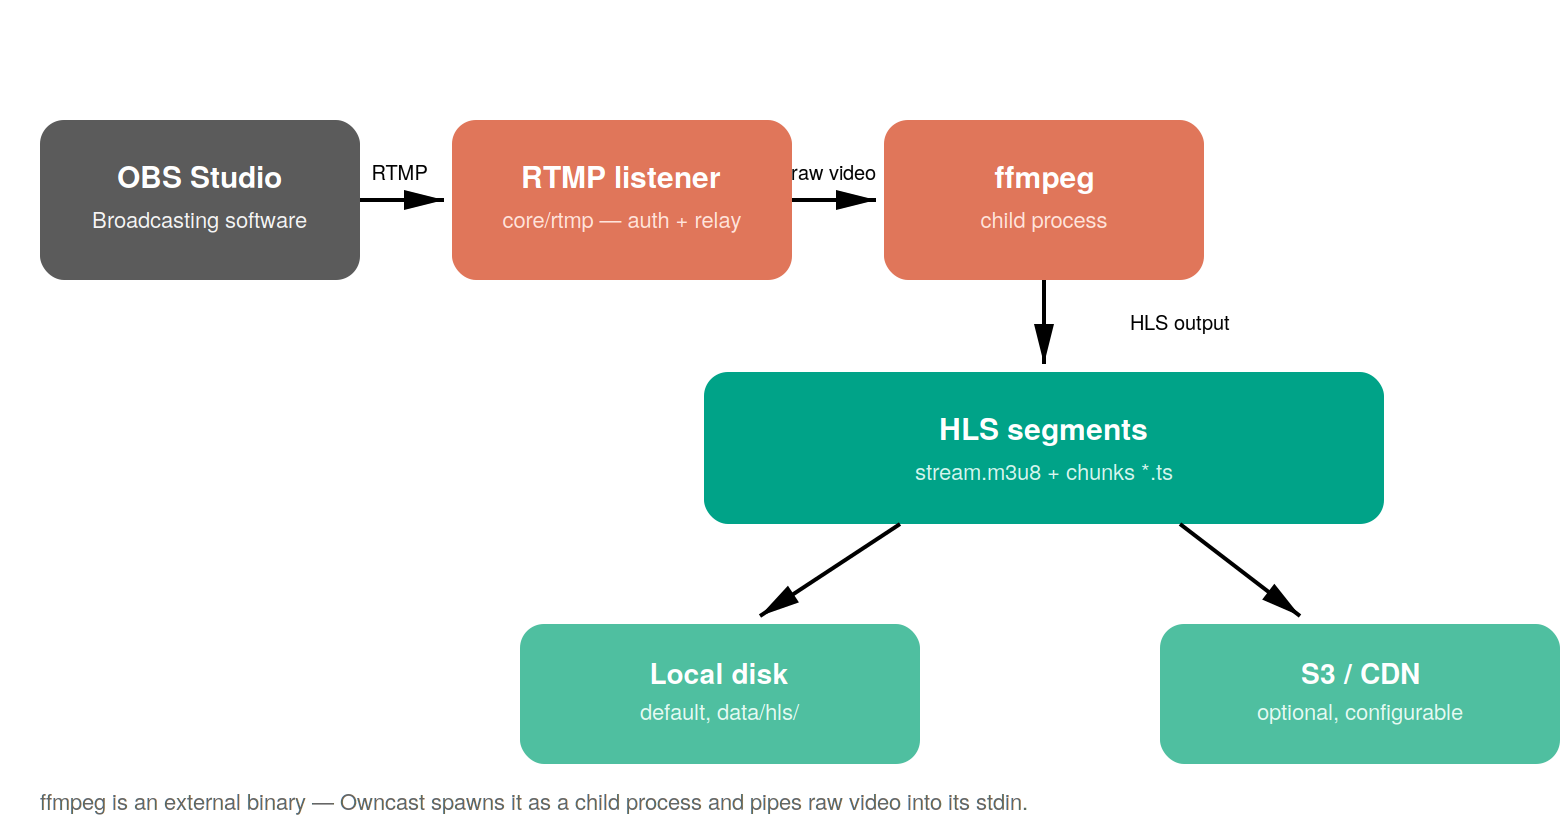
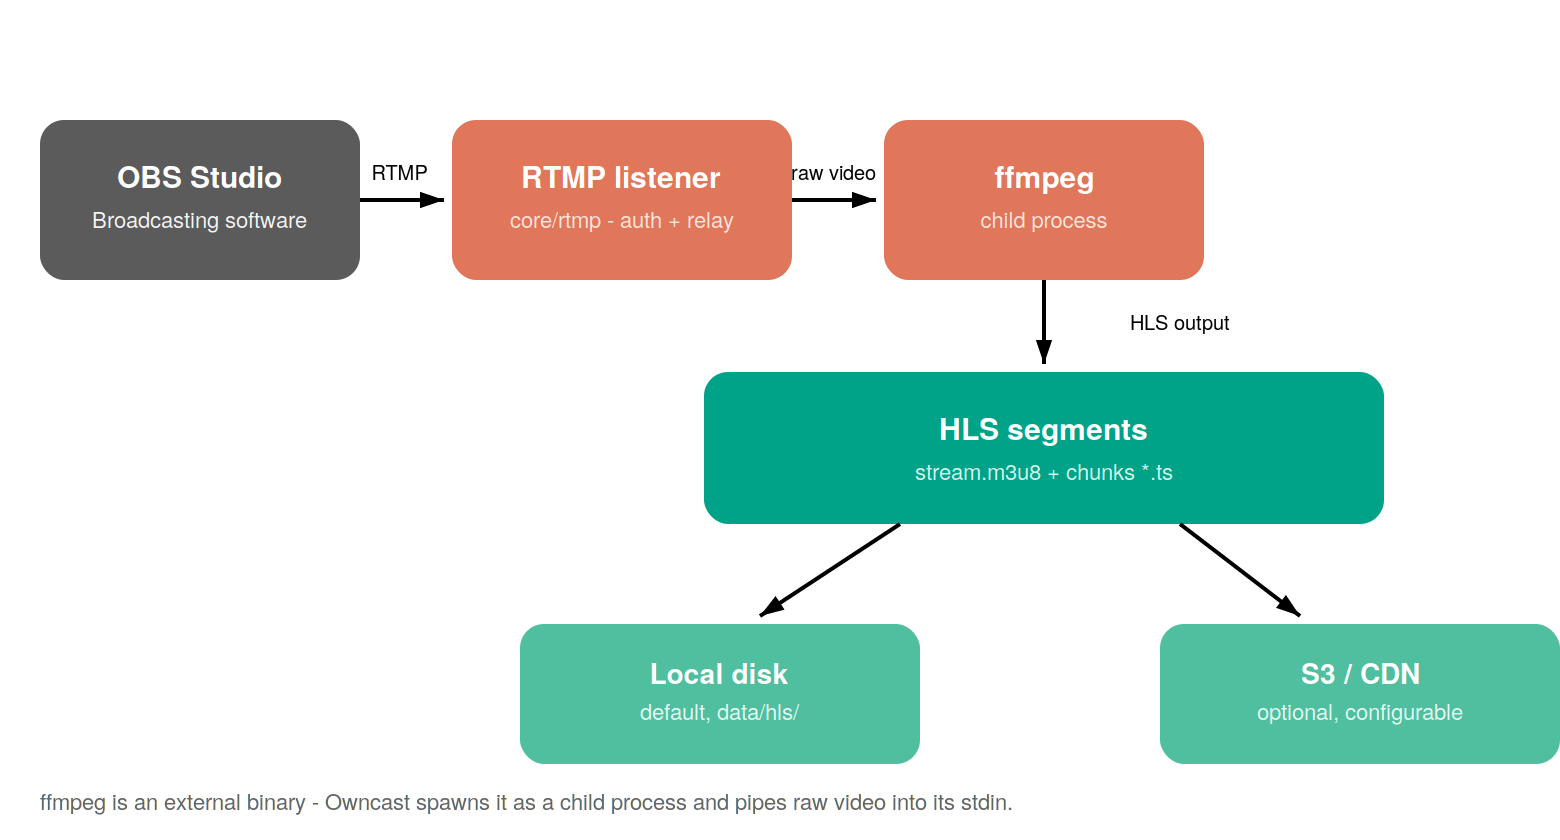
Fix image paths in Architecture Overview to work on GitHub

diff --git a/Writerside/topics/Architecture-Overview.md b/Writerside/topics/Architecture-Overview.md
@@ -12,6 +12,9 @@ each piece lives in the codebase.
 
 ## 1. System layers
 
+At a high level, Owncast receives an RTMP stream, transcodes it into HLS,
+serves the frontend, and emits webhook events as activity occurs.
+
 The system has four distinct layers. Each has a single responsibility and a
 clear boundary.
 
@@ -32,15 +35,15 @@ runs before any viewer can watch. This is the ingest pipeline.
 
 ## 3. Backend internals: request path
 
-All HTTP traffic — REST API, WebSocket chat, admin panel, static frontend —
+All HTTP traffic - REST API, WebSocket chat, admin panel, static frontend -
 enters through a single Go HTTP server. Here is how a request travels from
 the network to the database and back.
 
 ![Backend request path](../images/backend.png)
 
 Each layer only talks to the layer directly below it. A handler never
-queries the database directly — it always goes through a service. A service
-never writes SQL directly — it always goes through persistence. This
+queries the database directly - it always goes through a service. A service
+never writes SQL directly - it always goes through persistence. This
 separation makes each layer testable in isolation.
 
 **What lives in `services/`:**
@@ -59,12 +62,12 @@ separation makes each layer testable in isolation.
 
 The frontend is a Next.js application that lives in the `web/` directory. It
 is built separately from the Go backend and compiled into static files. At
-runtime the Go server serves these files — no Node.js process runs in
+runtime the Go backend serves these files - no Node.js process runs in
 production.
 
 ![Frontend architecture](../images/frontend.png)
 
-The video player uses `hls.js` — a JavaScript library that fetches HLS
+The video player uses `hls.js` - a JavaScript library that fetches HLS
 segments directly from disk or S3. The Go backend is not in the video
 playback path once streaming starts. Chat, however, always goes through the
 Go WebSocket server.
@@ -72,7 +75,7 @@ Go WebSocket server.
 ## 5. Database schema (key tables)
 
 Owncast uses a single SQLite file. All tables live in one database. There is
-no migrations framework — schema changes are handled in Go code at startup.
+no migrations framework - schema changes are handled in Go code at startup.
 
 ![Database schema](../images/erd.png)
 
@@ -82,18 +85,21 @@ Owncast connects to three types of external systems beyond the browser.
 
 ![External connections](../images/external.png)
 
-- **Mastodon / Fediverse** — via the ActivityPub protocol (`activitypub/`).
+- **Mastodon / Fediverse** - via the ActivityPub protocol (`activitypub/`).
   Viewers on Mastodon can follow an Owncast server as if it were a social
   media account; when a stream goes live, a post appears in their timeline.
-- **Bots / integrations** — via the REST API and webhooks (`webhooks/`).
-- **CDN** — for video segment delivery when S3-compatible storage is
+- **Bots / integrations** - via the REST API and webhooks (`webhooks/`).
+- **CDN** - for video segment delivery when S3-compatible storage is
   configured.
-- **Owncast directory** — the public stream listing that self-hosted servers
+- **Owncast directory** - the public stream listing that self-hosted servers
   can optionally publish to.
+## See also
+
+- [Webhooks API Reference](Webhooks-Api-Reference.md) - how the `webhooks/` service publishes outbound events
+- [Viewer Metrics](Viewer-Metrics.md) - fields carried inside the STREAM_TITLE_UPDATED webhook payload
+- [Owncast Documentation](Owncast-Documentation.md) - back to overview
 ---
 
-*Based on Owncast v0.2.x · [github.com/owncast/owncast](https://github.com/owncast/owncast)*
+*Based on Owncast v0.2.4 · [github.com/owncast/owncast](https://github.com/owncast/owncast)*
 
 ---
-
-*↑ Back to [Owncast Documentation](Owncast-Documentation.md).*

diff --git a/Writerside/topics/Webhooks-Api-Reference.md b/Writerside/topics/Webhooks-Api-Reference.md
@@ -1,6 +1,7 @@
 # API Reference: Webhooks
 
 This document covers Owncast's webhook system, which lets external applications react to server events (chat messages, stream start/stop, and more) in real time.
+
 ## What are webhooks
 
 Webhooks are the opposite of polling. Instead of your integration asking Owncast "did anything happen?" on a schedule, Owncast calls your server the moment something happens.
@@ -9,10 +10,10 @@ You register a URL. Owncast sends an HTTP POST to that URL whenever a specific e
 
 ```
 Without webhooks (polling):
-Your app -GET /status → Owncast (every 5 seconds, most calls return nothing new)
+Your app ──GET /status──> Owncast   (every 5 seconds, most calls return nothing new)
  
 With webhooks (push):
-Owncast -POST /your-endpoint → Your app (only when something actually happens)
+Owncast ──POST /your-endpoint──> Your app   (only when something actually happens)
 ```
 
 **When to use webhooks instead of the REST API:**
@@ -20,7 +21,6 @@ Owncast -POST /your-endpoint → Your app (only when something actually happens)
 - You want to build a Discord bot that announces when the stream goes live
 - You need to log all chat messages to an external database
 - You want to trigger other services when a specific event occurs
-
   **When to use the REST API instead:**
 - You need to query current state (how many viewers right now?)
 - You want to send something to Owncast (post a message, change the title)
@@ -242,10 +242,10 @@ When a subscribed event occurs, Owncast sends a POST request to your registered 
 }
 ```
 
-| Field | Type | Description                                                      |
-|---|---|------------------------------------------------------------------|
+| Field | Type | Description |
+|---|---|---|
 | `type` | string | The event type that fired (matches values in your `events` list) |
-| `eventData` | object | Event-specific payload (structure varies by type - see below)    |
+| [`eventData`](Glossary.md#eventdata) | object | Event-specific payload (structure varies by type - see below) |
 
 ### STREAM_STARTED and STREAM_STOPPED
 
@@ -403,12 +403,12 @@ curl -X POST http://your-owncast-server:8080/api/admin/webhooks/delete \
 
 ## Error handling reference
 
-| HTTP status | Meaning | Action                                                              |
-|---|---|---------------------------------------------------------------------|
-| `200` | Success | -                                                                   |
+| HTTP status | Meaning | Action |
+|---|---|---|
+| `200` | Success | -  |
 | `400` | Bad request | Check request body: missing fields, invalid URL, unknown event type |
-| `401` | Unauthorized | Check Basic Auth credentials; admin password may have changed       |
-| `500` | Server error | Check Owncast server logs                                           |
+| `401` | Unauthorized | Check Basic Auth credentials; admin password may have changed |
+| `500` | Server error | Check Owncast server logs |
 
 Owncast does **not** retry failed webhook deliveries. If your endpoint is down when an event fires, that event is lost. Design your receiver to be reliable, or poll the REST API as a fallback for critical events.
  
@@ -416,13 +416,16 @@ Owncast does **not** retry failed webhook deliveries. If your endpoint is down w
 
 ## Related resources
 
+- [Architecture Overview](Architecture-Overview.md) - how the `webhooks/` service fits into the overall system
+- [User](User.md) - structure of the `user` object referenced in CHAT and NAME_CHANGE payloads
+- [Chat Message](Chat-Message.md) - full structure of the CHAT payload's message data
+- [Viewer Metrics](Viewer-Metrics.md) - fields carried inside the STREAM_TITLE_UPDATED payload
 - [Full API reference](https://owncast.online/api/latest/#tag/Notifications) - Notifications section
 - [Building integrations](https://owncast.online/thirdparty/) - third-party tools built on Owncast
 - [Access tokens](https://owncast.online/docs/api/) - for REST API integrations that don't need webhooks
+- [Owncast Documentation](Owncast-Documentation.md) - back to overview
 ---
 
-*Based on Owncast v0.2.x · [github.com/owncast/owncast](https://github.com/owncast/owncast)*
+*Based on Owncast v0.2.4 · [github.com/owncast/owncast](https://github.com/owncast/owncast)*
 
 ---
-
-*↑ Back to [Owncast Documentation](Owncast-Documentation.md).*

diff --git a/Writerside/topics/Owncast-Documentation.md b/Writerside/topics/Owncast-Documentation.md
@@ -2,11 +2,14 @@
 
 [Owncast](https://github.com/owncast/owncast) is a self-hosted, open-source live streaming server. This section documents its architecture and its webhook system - a sample of documentation written for a real open-source project, covering two different genres: a system-level architecture overview and a detailed API reference.
 
+This documentation focuses on two areas:
+- The overall system architecture - how ingest, storage, backend, and frontend fit together.
+- The webhook API used to integrate Owncast with external services.
 ## Where to start
 
-**New to the project?** Start with the architecture overview - it explains how the system is structured end to end, from stream ingest to the frontend.
+**New to the project?** Start with the [Architecture Overview](Architecture-Overview.md) — it explains how the system is structured end to end, from stream ingest to the frontend.
 
-**Building an integration?** Go straight to the Webhooks API Reference - it's self-contained and includes everything needed to register a webhook and handle incoming events.
+**Building an integration?** Go straight to the [Webhooks API Reference](Webhooks-Api-Reference.md) — it's self-contained and includes everything needed to register a webhook and handle incoming events.
 
 ## Contents
 
@@ -18,13 +21,13 @@
 - **[Webhooks API Reference](Webhooks-Api-Reference.md)** - concepts, authentication, endpoints, event types, payload formats, and working receiver code in Python and Node.js.
   **Data objects referenced in webhook payloads:**
 
-| Object                               | Description                                                                               |
-|--------------------------------------|-------------------------------------------------------------------------------------------|
-| [User](User.md)                      | A chat user - appears inside CHAT, USER_JOINED, and NAME_CHANGE payloads                  |
-| [Chat Message](Chat-Message.md)      | A single chat message - the payload of the CHAT event                                     |
-| [Viewer Metrics](Viewer-Metrics.md) | Current, session-max, and overall-max viewer counts - carried inside STREAM_TITLE_UPDATED |
+| Object | Events | Description |
+|---|---|---|
+| [User](User.md) | CHAT, USER_JOINED, NAME_CHANGE | A chat user |
+| [Chat Message](Chat-Message.md) | CHAT | A single chat message |
+| [Viewer Metrics](Viewer-Metrics.md) | STREAM_TITLE_UPDATED | Current, session-max, and overall-max viewer counts |
 
 - **[Glossary](Glossary.md)** - key terms used across the webhook system (webhook, event type, eventData, clientId, user.id)
 ---
 
-*Based on Owncast v0.2.x · [github.com/owncast/owncast](https://github.com/owncast/owncast)*
+*Based on Owncast v0.2.4 · [github.com/owncast/owncast](https://github.com/owncast/owncast)*

diff --git a/Writerside/topics/Glossary.md b/Writerside/topics/Glossary.md
@@ -8,16 +8,16 @@ An HTTP request that Owncast sends automatically to a configured URL when a spec
 
 A label identifying what kind of event a webhook payload describes (for example, CHAT or STREAM_STARTED).
 
-## eventData
+## eventData {id="eventdata"}
 
 The part of a webhook payload that contains the specific details of an event. Its structure depends on the event type.
 
-## clientId
+## clientId {id="clientid"}
 
 A number identifying a single connection to Owncast. A user can have multiple clientIds if they connect from several devices or browsers at once.
 
-## user.id
+## user.id {id="user-id"}
 
-A unique identifier for a chat user, independent of their current connection — unlike clientId, it stays the same across sessions.
+A unique identifier for a chat user, independent of their current connection - unlike clientId, it stays the same across sessions.
 
-*↑ Back to [Owncast Documentation](Owncast-Documentation.md).*
+- [Owncast Documentation](Owncast-Documentation.md) - back to overview

diff --git a/Writerside/topics/Chat-Message.md b/Writerside/topics/Chat-Message.md
@@ -11,7 +11,7 @@ webhook event.
 |---|---|
 | id | Unique identifier for the message |
 | user | The [User](User.md) object of the message sender |
-| clientId | Identifies the specific connection/session that sent the message |
+| [clientId](Glossary.md#clientid) | Identifies the specific connection/session that sent the message |
 | body | The message content, rendered as HTML |
 | rawBody | The original, unrendered message text |
 | visible | Whether the message is currently visible in chat |
@@ -23,6 +23,6 @@ CHAT
 
 ## See also
 
-- [User](User.md) — structure of the `user` field
-- [Webhooks API Reference](Webhooks-Api-Reference.md) — full CHAT payload example and receiver code
-- [Owncast Documentation](Owncast-Documentation.md) — back to overview
+- [User](User.md) - structure of the `user` field
+- [Webhooks API Reference](Webhooks-Api-Reference.md) - full CHAT payload example and receiver code
+- [Owncast Documentation](Owncast-Documentation.md) - back to overview

diff --git a/Writerside/topics/User.md b/Writerside/topics/User.md
@@ -9,7 +9,7 @@ inside several webhook events, such as CHAT and USER_JOINED.
 
 | Field | Description |
 |---|---|
-| id | Unique identifier for the user |
+| [id](Glossary.md#user-id) | Unique identifier for the user |
 | displayName | The user's current chat display name |
 | displayColor | Numeric value used to assign the user's chat color |
 | createdAt | Timestamp when the user first connected |
@@ -24,6 +24,6 @@ CHAT, USER_JOINED, NAME_CHANGE
 
 ## See also
 
-- [Chat Message](Chat-Message.md) — includes a `user` object with this structure
-- [Webhooks API Reference](Webhooks-Api-Reference.md) — full payload examples for CHAT and NAME_CHANGE
-- [Owncast Documentation](Owncast-Documentation.md) — back to overview
+- [Chat Message](Chat-Message.md) - includes a `user` object with this structure
+- [Webhooks API Reference](Webhooks-Api-Reference.md) - full payload examples for CHAT and NAME_CHANGE
+- [Owncast Documentation](Owncast-Documentation.md) - back to overview

diff --git a/Writerside/topics/Viewer-Metrics.md b/Writerside/topics/Viewer-Metrics.md
@@ -11,10 +11,10 @@ inside the `status` object of the `STREAM_TITLE_UPDATED` webhook event.
 
 ## Source event
 
-`STREAM_TITLE_UPDATED` — all three fields arrive together inside the same
+`STREAM_TITLE_UPDATED` - all three fields arrive together inside the same
 `status` object; there is no separate event per metric.
 
 ## See also
 
 - [Webhooks API Reference](Webhooks-Api-Reference.md)
-- [Owncast Documentation](Owncast-Documentation.md) — back to overview
+- [Owncast Documentation](Owncast-Documentation.md) - back to overview